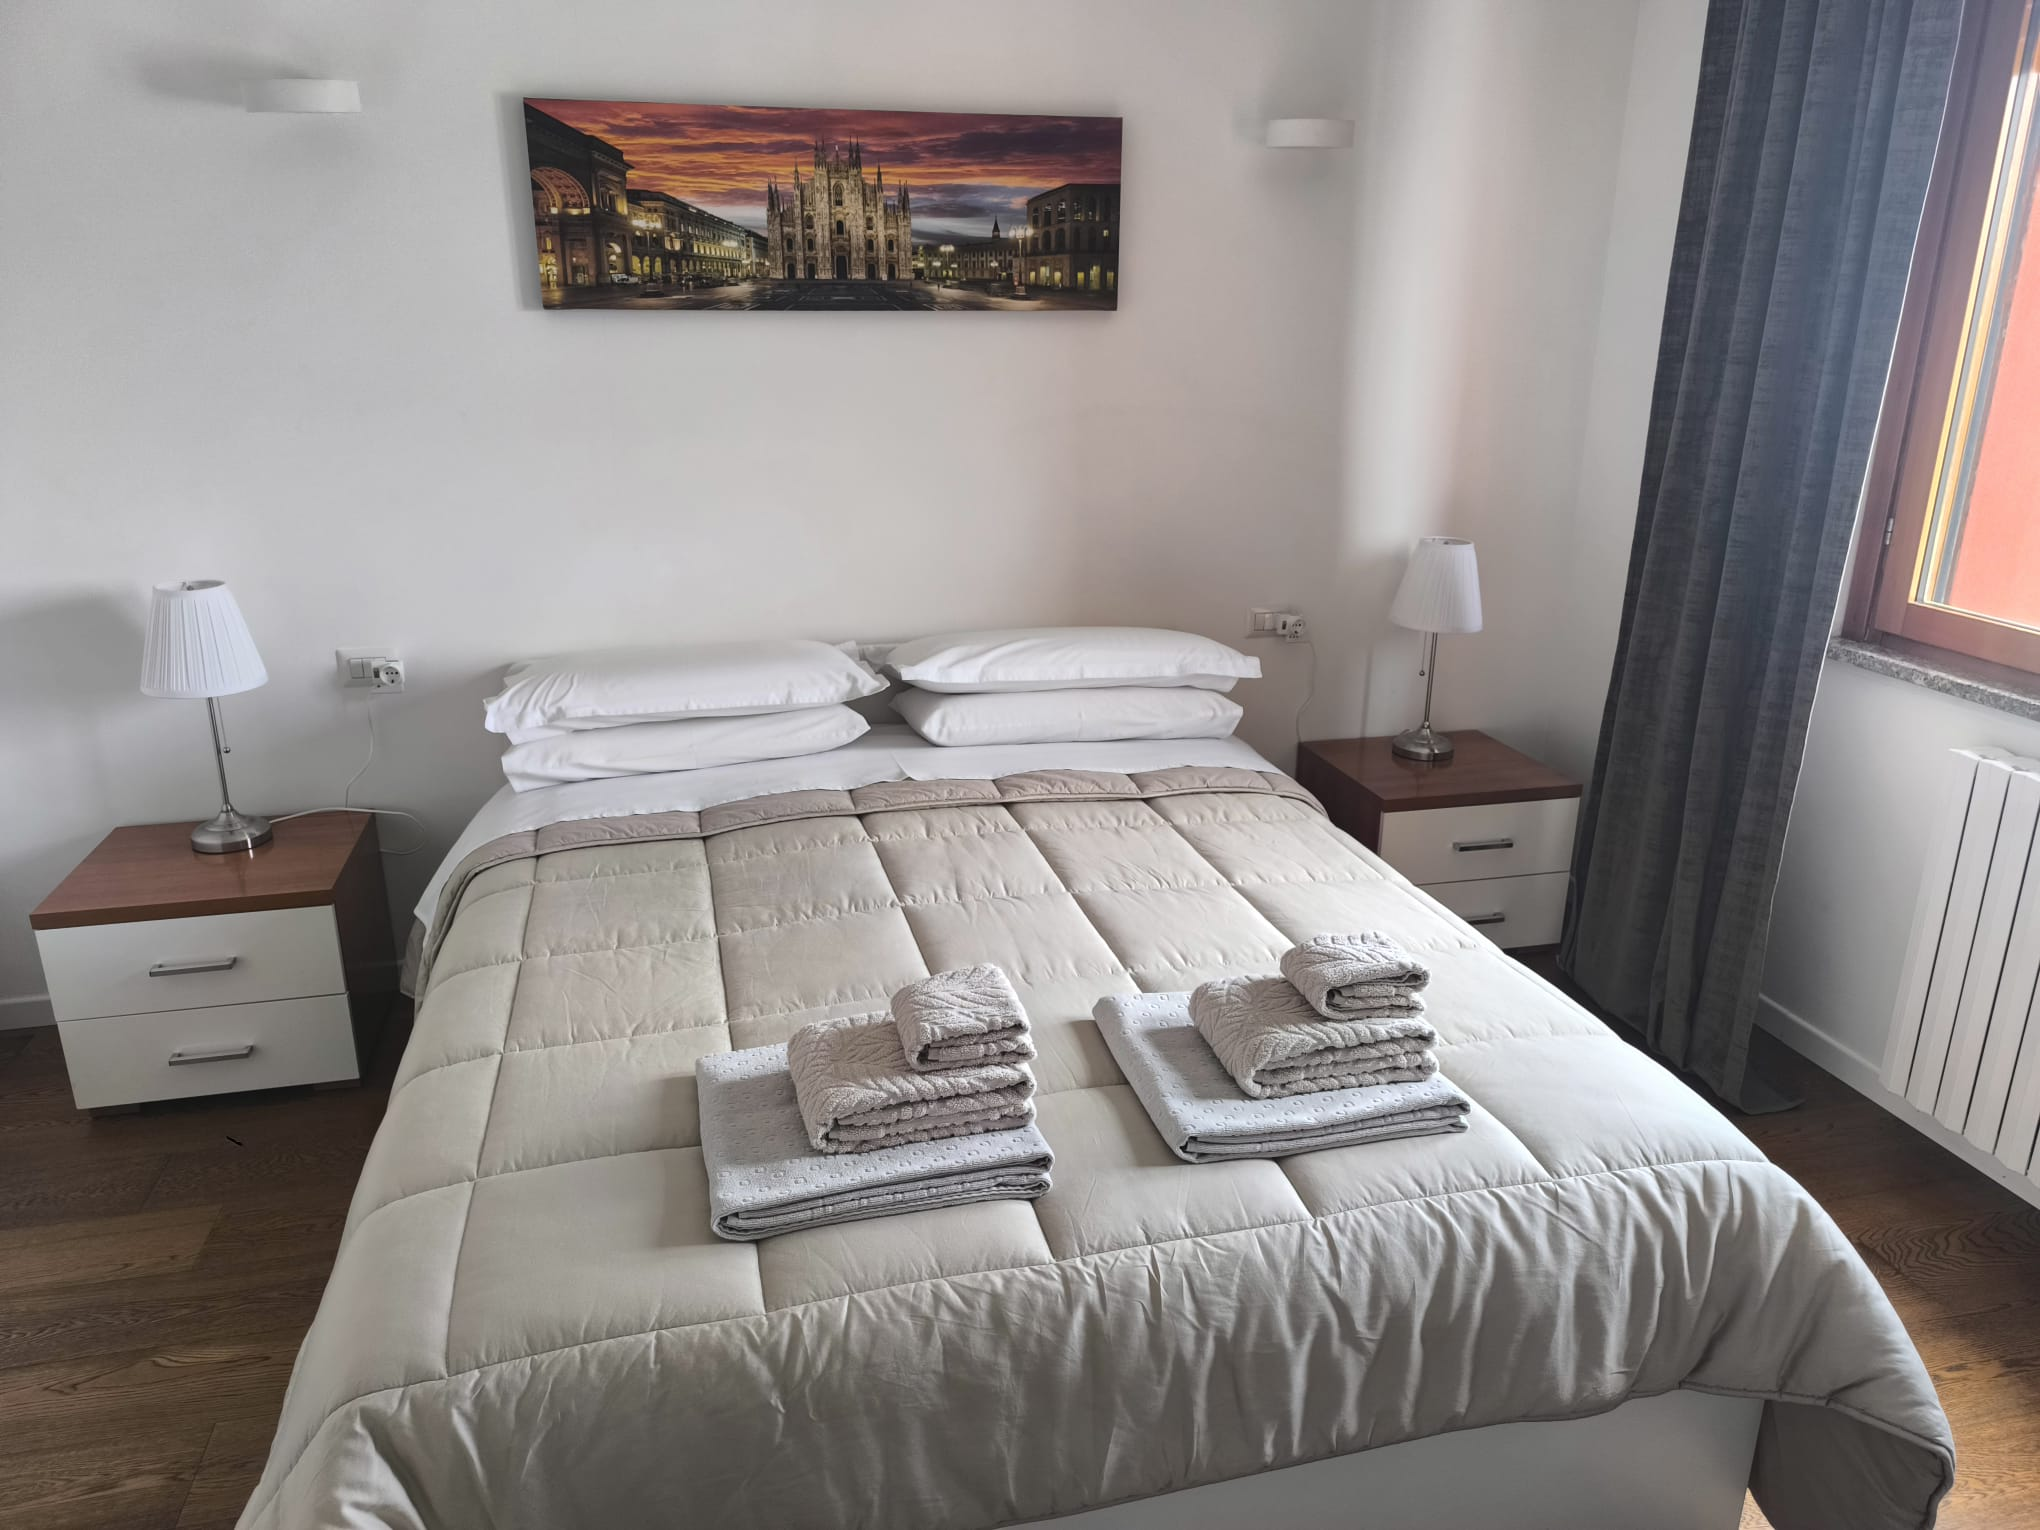
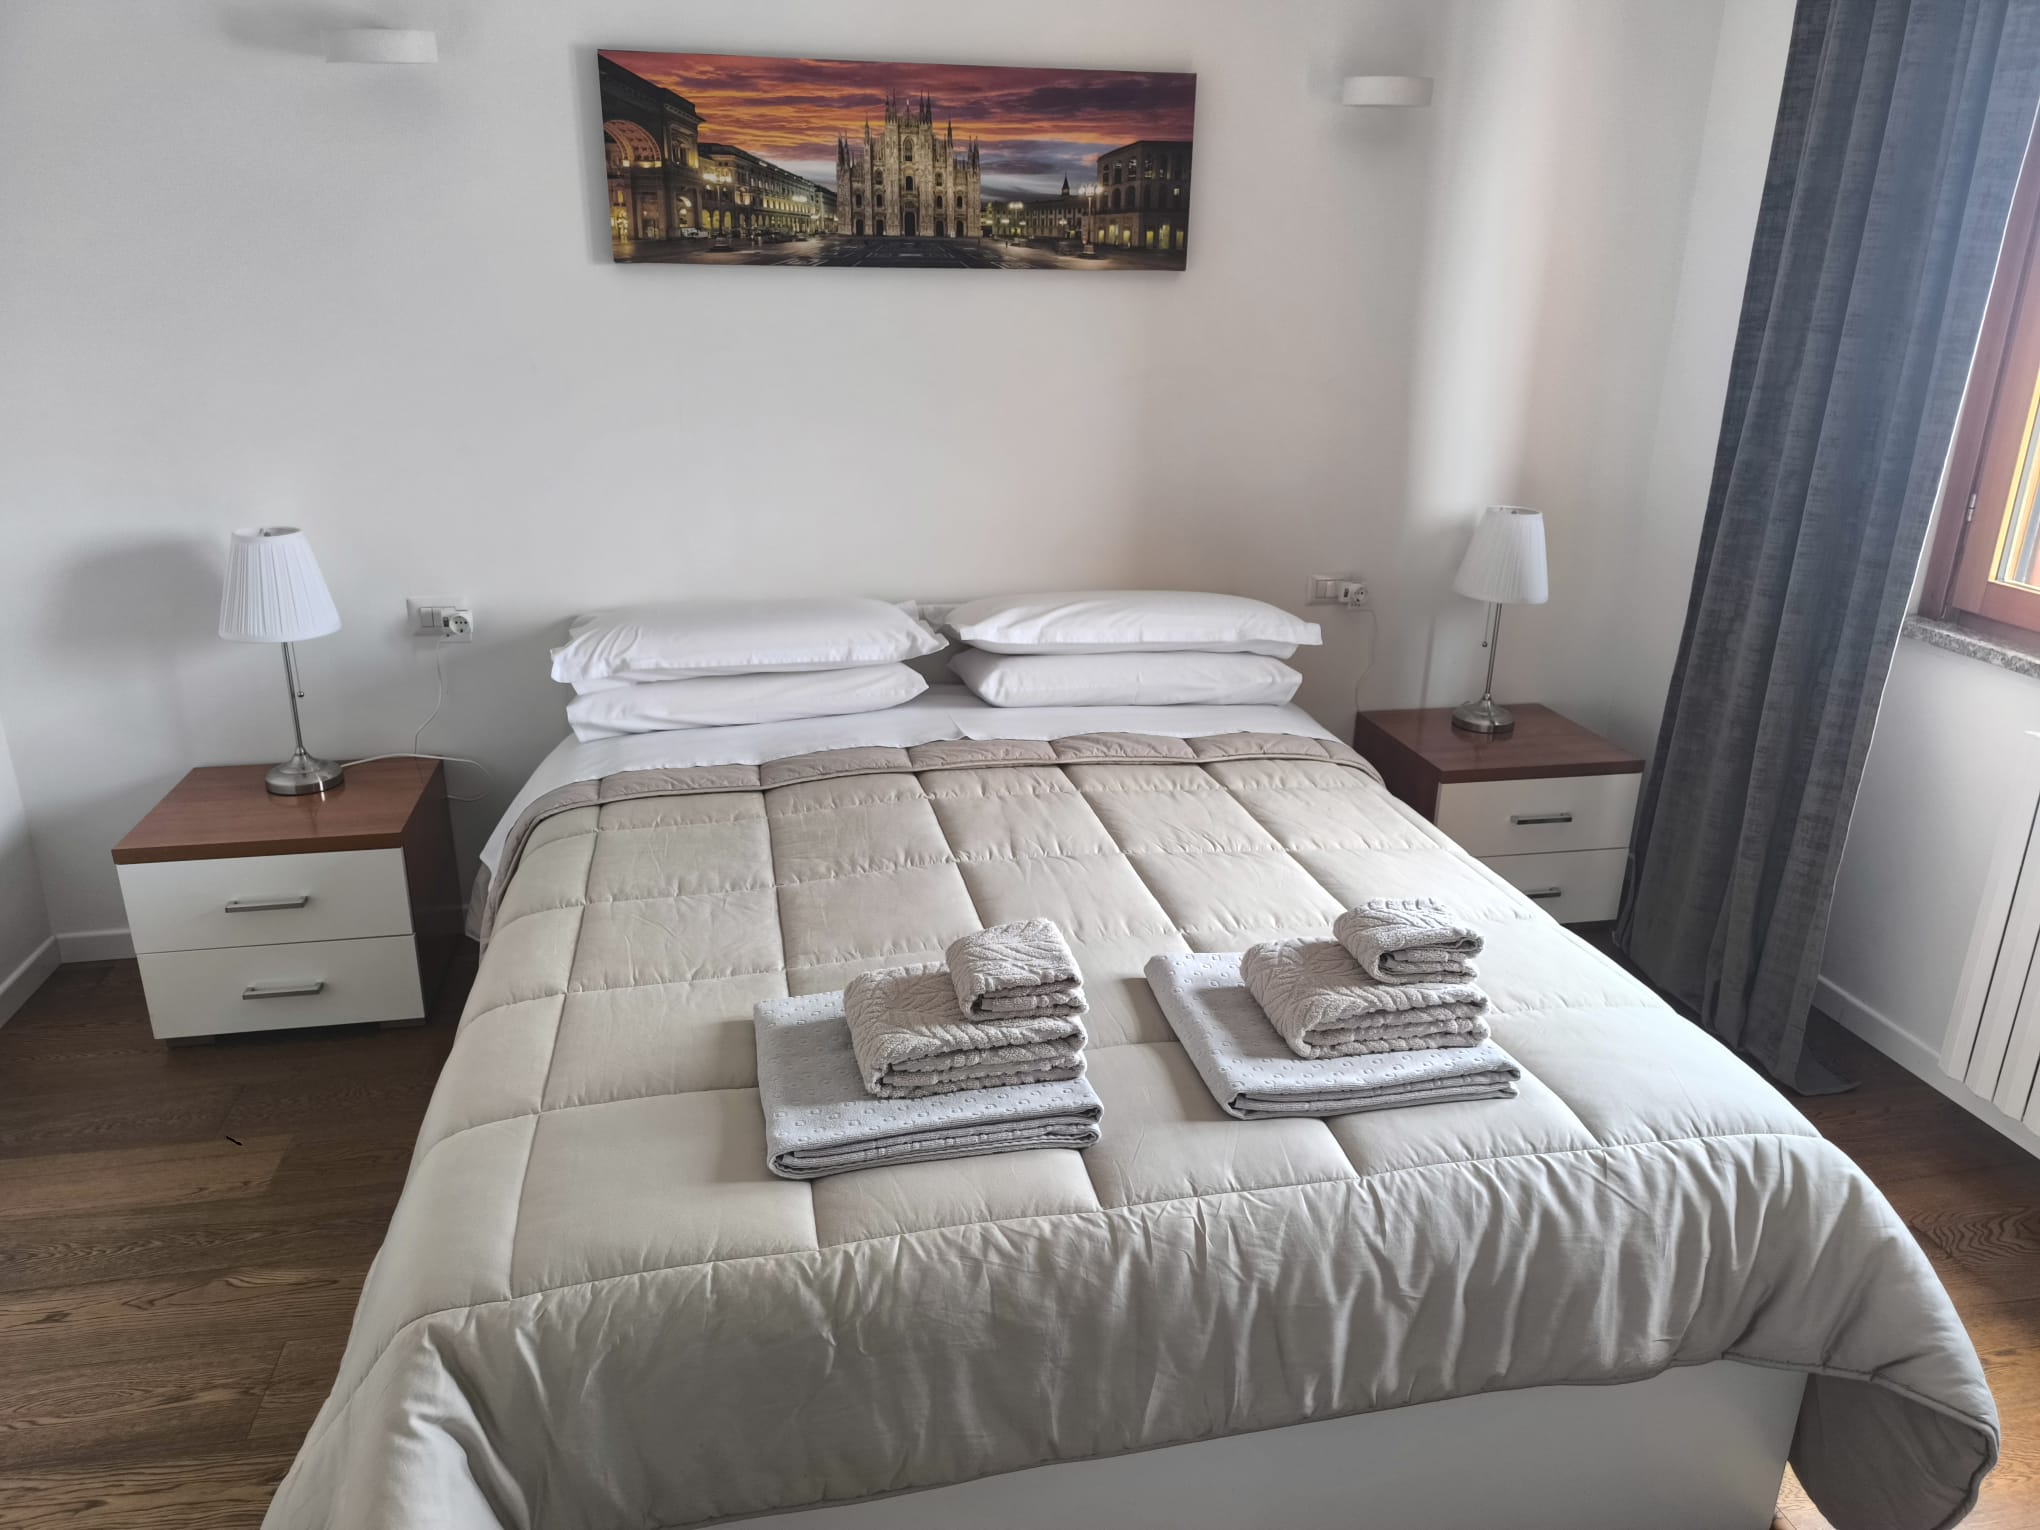
Ambra: add gallery with 7 Top photos, lightbox, fix price to €80

diff --git a/app/camere/ambra/page.tsx b/app/camere/ambra/page.tsx
@@ -1,15 +1,36 @@
+'use client'
 import Link from 'next/link'
+import { useState } from 'react'
 
 const PHONE = '[phone redacted]'
 const PHONE_DISPLAY = '342 700 4345'
 const WA_LINK = `https://wa.me/39${PHONE}`
 const TEL_LINK = `tel:+39${PHONE}`
+const PHOTOS = [1, 2, 3, 4, 5, 6, 7, 8]
 
 export default function CameraAmbra() {
+  const [lightbox, setLightbox] = useState<number | null>(null)
+  const lightboxIdx = lightbox !== null ? PHOTOS.indexOf(lightbox) : -1
+
   return (
     <main className="min-h-screen bg-white text-gray-900">
 
-      <header className="bg-white border-b border-gray-100 sticky top-0 z-50">
+      {/* LIGHTBOX */}
+      {lightbox !== null && (
+        <div className="fixed inset-0 bg-black/90 z-50 flex items-center justify-center p-4"
+          onClick={() => setLightbox(null)}>
+          <button className="absolute top-4 right-4 text-white text-3xl font-bold">✕</button>
+          <button className="absolute left-4 text-white text-4xl font-bold px-2"
+            onClick={e => { e.stopPropagation(); setLightbox(PHOTOS[lightboxIdx > 0 ? lightboxIdx - 1 : PHOTOS.length - 1]) }}>‹</button>
+          <img src={`/camere/ambra/foto${lightbox}.jpg`} alt=""
+            className="max-w-full max-h-full object-contain rounded-xl"
+            onClick={e => e.stopPropagation()} />
+          <button className="absolute right-4 text-white text-4xl font-bold px-2"
+            onClick={e => { e.stopPropagation(); setLightbox(PHOTOS[lightboxIdx < PHOTOS.length - 1 ? lightboxIdx + 1 : 0]) }}>›</button>
+        </div>
+      )}
+
+      <header className="bg-white border-b border-gray-100 sticky top-0 z-40">
         <div className="max-w-4xl mx-auto px-4 py-4 flex items-center justify-between">
           <Link href="/" className="flex items-center gap-2 text-green-800 font-bold">
             ← Casa Ania Rozzano
@@ -24,10 +45,20 @@ export default function CameraAmbra() {
       <div className="max-w-4xl mx-auto px-4 py-8">
 
         <h1 className="text-3xl font-bold text-gray-800 mb-1">Camera Matrimoniale Ambra</h1>
-        <p className="text-green-700 font-semibold text-lg mb-6">€79 / notte · 2 persone</p>
+        <p className="text-green-700 font-semibold text-lg mb-6">€80 / notte · 2 persone</p>
 
-        <div className="rounded-2xl h-64 md:h-96 overflow-hidden mb-4">
+        <div className="rounded-2xl h-80 md:h-[500px] overflow-hidden mb-4 cursor-pointer"
+          onClick={() => setLightbox(1)}>
           <img src="/camere/ambra/foto1.jpg" alt="Camera Ambra" className="w-full h-full object-cover" />
+        </div>
+
+        <div className="grid grid-cols-3 gap-2 mb-8">
+          {[2, 3, 4, 5, 6, 7, 8].map(n => (
+            <div key={n} className="rounded-xl h-24 overflow-hidden cursor-pointer"
+              onClick={() => setLightbox(n)}>
+              <img src={`/camere/ambra/foto${n}.jpg`} alt={`Camera Ambra ${n}`} className="w-full h-full object-cover" />
+            </div>
+          ))}
         </div>
 
         <div className="mb-8">